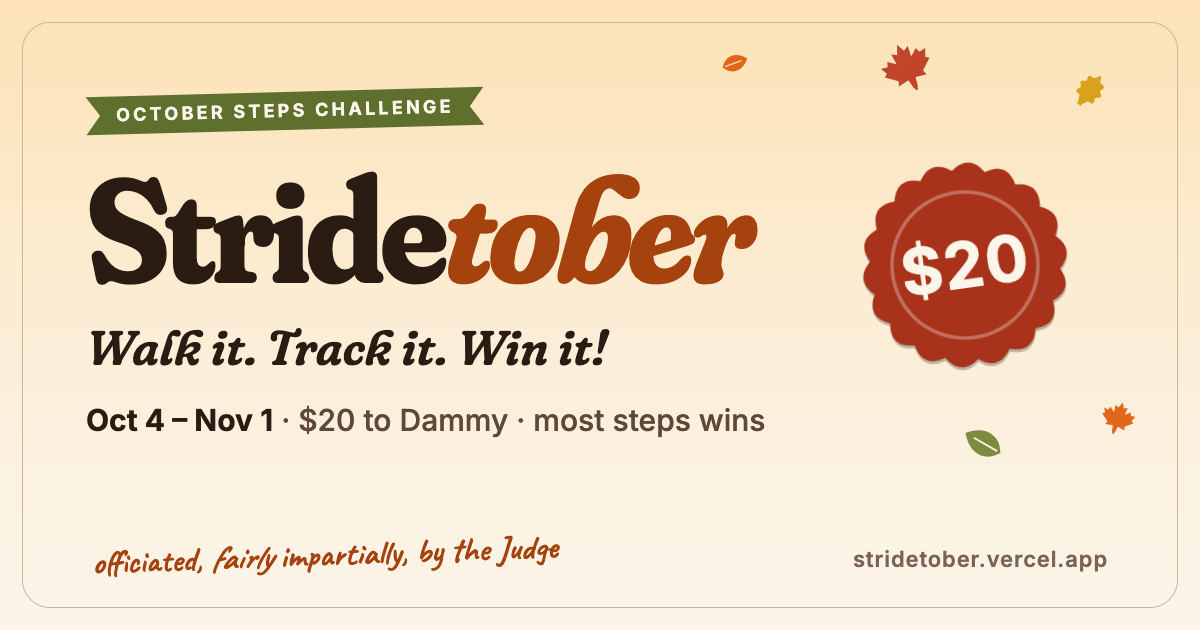
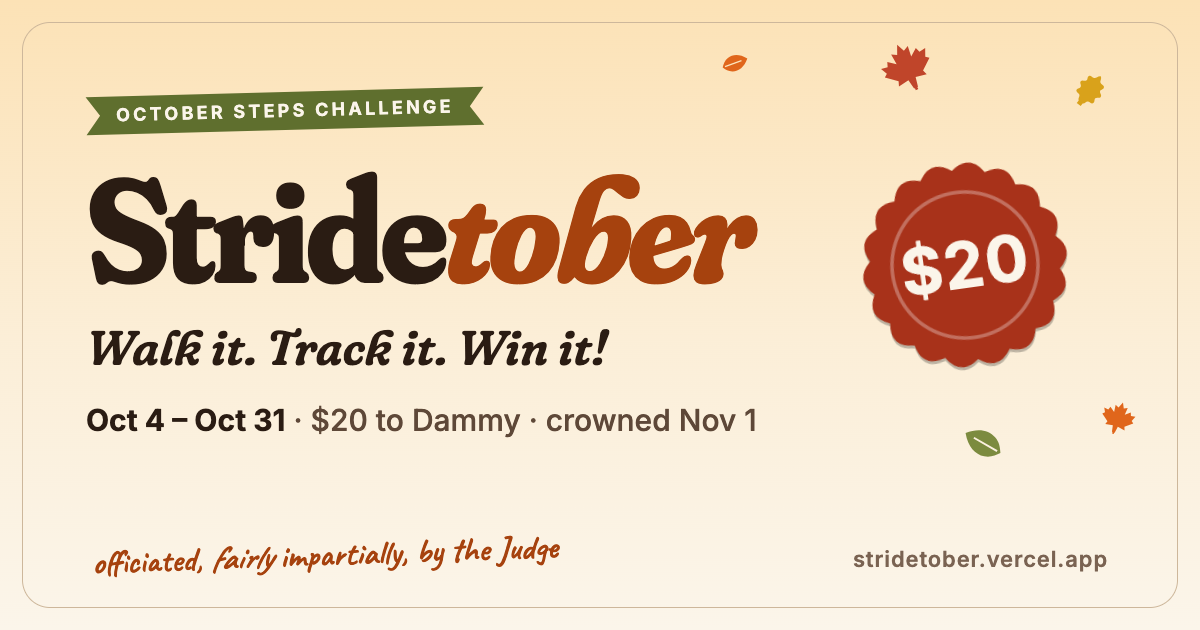
fix: the walking ends at midnight on Halloween — Nov 1 is the crowning
The dates were right; the way they read was not. Every 'Oct 4 – Nov 1' now
says 'Oct 4 – Oct 31', with November 1st named as the day the champion is
crowned: the link-preview card (regenerated), the og description, the
footer's fine print, the How-it-works card and the Summons.

Changed region(s): [[0.1542, 0.6333, 0.6475, 0.6937]]

diff --git a/public/index.html b/public/index.html
@@ -16,7 +16,7 @@
 <meta property="og:type" content="website">
 <meta property="og:site_name" content="Stridetober">
 <meta property="og:title" content="Stridetober 🍂 Walk it. Track it. Win it!">
-<meta property="og:description" content="Oct 4 – Nov 1. $20 buy-in to Dammy. Most total steps is crowned THE OCTOBER STEP CHAMPION — top three split the pot 50/30/20.">
+<meta property="og:description" content="Oct 4 – Oct 31. $20 buy-in to Dammy. Most total steps is crowned THE OCTOBER STEP CHAMPION on November 1 — top three split the pot 50/30/20.">
 <meta property="og:image" content="https://stridetober.vercel.app/og.png">
 <meta property="og:image:width" content="1200">
 <meta property="og:image:height" content="630">
@@ -102,7 +102,7 @@
     <div class="leaf-pile" id="leafPile" aria-hidden="true"></div>
     <p class="rake-line" id="rakeLine">Rake the pile. Jump in it. Neither counts.</p>
     <p class="signoff">“Fairly impartial. Entirely unforgiving.” — The Judge</p>
-    <p class="fine">Stridetober · Oct 4 – Nov 1 · unlisted, noindex, judge's rulings <em>fairly</em> final</p>
+    <p class="fine">Stridetober · Oct 4 – Oct 31 · champion crowned Nov 1 · unlisted, noindex, judge's rulings <em>fairly</em> final</p>
   </div>
 </footer>
 

diff --git a/public/data/walkers.js b/public/data/walkers.js
@@ -1,6 +1,6 @@
 // The Roll fills in as tribute lands. Schema — docs/PLAN.md §7.1:
 // { id:"sam", name:"Sam Reyes", short:"Sam", crest:"🦊", color:"spruce",
-//   paid:true, paidOn:"2026-09-30", birthday:null }   // "MM-DD", only if Oct 4–Nov 1
+//   paid:true, paidOn:"2026-09-30", birthday:null }   // "MM-DD", only if Oct 4–Oct 31
 // Crests: a unique fall emoji each (PLAN §3.6). Colors: palette keys in roster order (§3.2).
 // paid:false → "tribute pending" on the Roll and excluded from ALL standings/honours.
 // Eight are expected; two are still unnamed — add them here as they swear in.

diff --git a/public/src/views/summons.js b/public/src/views/summons.js
@@ -15,7 +15,7 @@ export function render(ctx) {
       ${seal("S", { size: "seal-96", cls: "summons-seal" })}
       <p class="kicker">October Steps Challenge</p>
       <p class="summons-mark">Stride<em>tober</em></p>
-      <p class="summons-dates">OCTOBER 4TH – NOVEMBER 1ST</p>
+      <p class="summons-dates">OCTOBER 4TH – 31ST</p>
       <p class="summons-tag">Walk it. Track it. Win it!</p>
       <ul class="summons-terms">
         <li><b>$20 buy-in</b> — Venmo @${esc(c.venmoHandle)} before Oct 4</li>

diff --git a/tools/og.html b/tools/og.html
@@ -49,7 +49,7 @@
   <span class="ribbon">October Steps Challenge</span>
   <p class="mark">Stride<em>tober</em></p>
   <p class="tag">Walk it. Track it. Win it!</p>
-  <p class="facts"><b>Oct 4 – Nov 1</b> · $20 to Dammy · most steps wins</p>
+  <p class="facts"><b>Oct 4 – Oct 31</b> · $20 to Dammy · crowned Nov 1</p>
 </div>
 <p class="note">officiated, <em>fairly</em> impartially, by the Judge</p>
 <p class="url">stridetober.vercel.app</p>

diff --git a/public/src/views/court.js b/public/src/views/court.js
@@ -146,7 +146,7 @@ function kit() {
 
 function how() {
   const steps = [
-    ["Walk", "Oct 4 – Nov 1. Every step counts."],
+    ["Walk", "Oct 4 – Oct 31. Every step counts."],
     ["Report", "Screenshot your week. Send it DIRECTLY TO DAMMY — NOT THE GROUP CHAT!"],
     ["Win", "Top three split the pot — 50/30/20. Crowned November 1."],
   ];

diff --git a/docs/PLAN.md b/docs/PLAN.md
@@ -492,7 +492,7 @@ All screens share the chrome in §5.1, render into `<main id="view">`, and obey 
 - **Header.** `.wrap` row, height 64px. Left: wordmark "Stridetober" — "Stride" Fraunces 700 upright, "tober" Fraunces 700 italic in `--accent-ink`; the dot of the "i" is the leaf tittle (M22). Right: the phase chip — a 32px pill in `--surface-2` with Inter 600 12px uppercase text in `--ink-2` (`MUSTER`, `WEEK 1`…`WEEK 4`, `COUNTING`, `EVE 🎃`, `CROWNED`). On Hallowed Eve the chip goes `--eve`. Auto-hides on scroll (M16); the header is `position:sticky; top:0; z-index:40` with a `backdrop-filter: blur(10px)` over `color-mix(in srgb, var(--bg) 82%, transparent)`.
 - **Nav.** `<1024px`: bottom tab bar, fixed, `z-index:50`, `--surface` with a 1px `--line` top border, `padding-bottom: env(safe-area-inset-bottom)`. Four tabs: **Court** (gavel icon), **Ledger** (tally icon), **Check-in** (check icon), **More** (chevron — opens the sheet). 56px icon+label columns, active tab in `--accent-ink`, tab leaf indicator (M15). `≥1024`: the tab bar is replaced by inline links in the header (Court · Ledger · Check-in · Decree · Excuses · Finds · Summons — only links to built views; Finds appears in R3), and "More" disappears.
 - **Sheet** ("More", mobile only). Slides up (§3.5 Sheet): The Decree, Settle It, Court of Excuses, Fall Finds (R3), The Summons, then a **Theme** row cycling Auto → Dark → Light, persisted in `localStorage["stridetober:theme"]` and applied as `html[data-theme]`. Focus trap, Escape and scrim close, reflow-toggle pattern from Big Steppas `setDrawer()`.
-- **Footer.** `.wrap`, `margin-top: var(--s-9)`, 1px `--line` top border. Contents: the leaf pile (M21, 48px tall) with the rake counter line; then a two-line sign-off — `"Fairly impartial. Entirely unforgiving." — The Judge` in Caveat `--ink-2`, and the tiny print `Stridetober · Oct 4 – Nov 1 · unlisted, noindex, judge's rulings fairly final`. `margin-bottom` clears the tab bar on mobile (`calc(72px + env(safe-area-inset-bottom))`).
+- **Footer.** `.wrap`, `margin-top: var(--s-9)`, 1px `--line` top border. Contents: the leaf pile (M21, 48px tall) with the rake counter line; then a two-line sign-off — `"Fairly impartial. Entirely unforgiving." — The Judge` in Caveat `--ink-2`, and the tiny print `Stridetober · Oct 4 – Oct 31 · champion crowned Nov 1 · unlisted, noindex, judge's rulings fairly final`. `margin-bottom` clears the tab bar on mobile (`calc(72px + env(safe-area-inset-bottom))`).
 - **Announcement banner.** A slot directly under the header, rendered when `ANNOUNCEMENT` is live (§7.1). Card in `--surface` with a `--gold-ink` kicker. `mode:"getwell"` replaces the Court's standings preview entirely (Big Steppas pattern — the banner *is* the news); `mode:"note"` is a dismissible banner (dismissal remembered in `localStorage["stridetober:anno-dismissed:<hash>"]`).
 - **Leaf layer + burst canvas** (§4.5, §4.6) exist once in `index.html`, behind everything (`z-index:0`) and above everything (`z-index:90`) respectively.
 - **Route map.**
@@ -523,7 +523,7 @@ Home. Its content is a stack of cards in `.wrap` (single column mobile; two-colu
 3. **Buy-in card.** Left: wax seal 56px embossed `$20`. Right: heading `The Tribute`, body `Send your $20 to Dammy BEFORE October 4th!` (verbatim), primary button `Pay the Tribute 🪙` → `CHALLENGE.venmoUrl` (new tab, `rel="noopener"`), with the muster-only pulse ring (M14). Under the button, caption `--ink-3`: `Venmo @Dammyhenry`. Bottom-right of the card, ink stamp `NO $20 = NO COMPETING!` (§3.5 stamp, static here).
 4. **The Roll.** Heading `The Roll of the Sworn`, sub `Walkers appear here as their tribute lands.` Roster grid (`auto-fill, minmax(min(160px,100%),1fr)`): each card = 40px crest, name, and either a PAID wax seal (stamp M8, `thud` on the card) or a hollow `--line-strong` outline seal captioned `tribute pending`. Empty state: centered card, hollow seal, `The Roll awaits its first tribute.` + margin note `the early bird avoids the guilt`.
 5. **What you need.** Heading `The Sworn Kit`. Three check rows: `A step tracker` ✓, `Two functioning feet` ✓, then `NO EXCUSES` rendered as a red ink stamp, not a checkbox. Each ✓ draws on (M11-style `draw`) as the card reveals.
-6. **How it works** — three compact cards in a row (stack on mobile): `Walk` `Oct 4 – Nov 1. Every step counts.` / `Report` `Screenshot your week. Send it DIRECTLY TO DAMMY — NOT THE GROUP CHAT!` / `Win` `Top three split the pot — 50/30/20. Crowned November 1.` Link `Read the full Decree →` to `#/rules`.
+6. **How it works** — three compact cards in a row (stack on mobile): `Walk` `Oct 4 – Oct 31. Every step counts.` / `Report` `Screenshot your week. Send it DIRECTLY TO DAMMY — NOT THE GROUP CHAT!` / `Win` `Top three split the pot — 50/30/20. Crowned November 1.` Link `Read the full Decree →` to `#/rules`.
 7. **Dammy's Job** card — kicker `DAMMY'S JOB:`, the five flyer bullets verbatim (§6.2).
 
 **Walking phase** (Oct 4 → Nov 1 00:00):
@@ -614,7 +614,7 @@ Field journal of things spotted mid-walk. Heading `Fall Finds`, kicker `THE FIEL
 
 Recruitment card, built to be shared. Heading `The Summons`, kicker `YOU ARE HEREBY INVITED`.
 
-- A parchment card that reads like the flyer condensed: `OCTOBER STEPS CHALLENGE`, `Oct 4 – Nov 1`, `$20 buy-in — Venmo @Dammyhenry before Oct 4`, `Weekly screenshots to Dammy`, `Top three split the pot — 50/30/20`. Wax seal `S`.
+- A parchment card that reads like the flyer condensed: `OCTOBER STEPS CHALLENGE`, `OCTOBER 4TH – 31ST`, `$20 buy-in — Venmo @Dammyhenry before Oct 4`, `Weekly screenshots to Dammy`, `Top three split the pot — 50/30/20`. Wax seal `S`.
 - Buttons: `Share the Summons` (`navigator.share`, copy fallback + toast) and `Pay the Tribute 🪙` → Venmo.
 - Muster-only: after Oct 4 the card gains `The season has begun — latecomers may still pay tribute, but the walking will not wait for them.`
 
